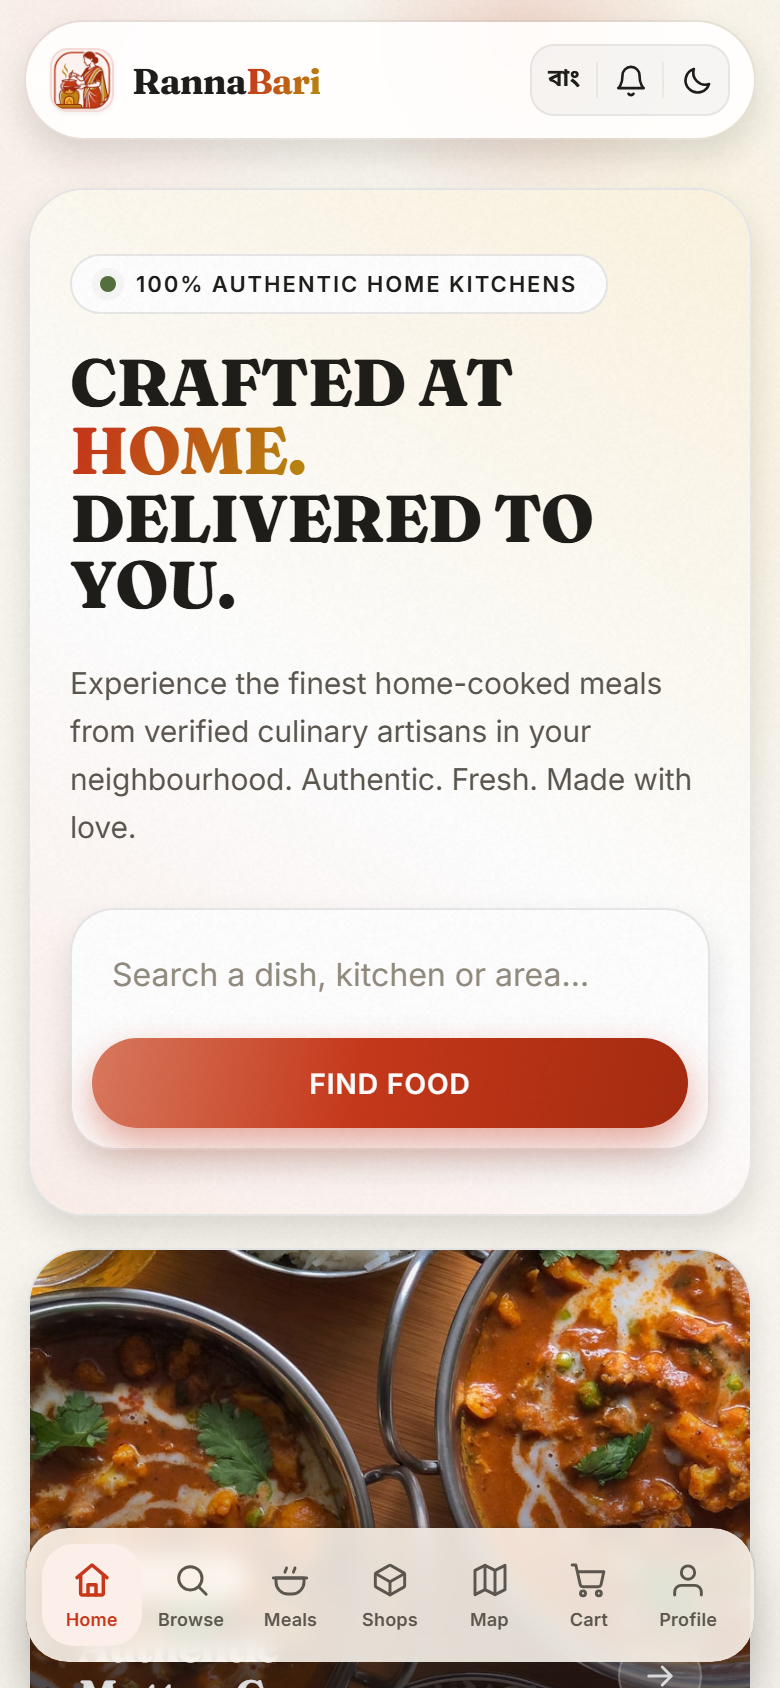
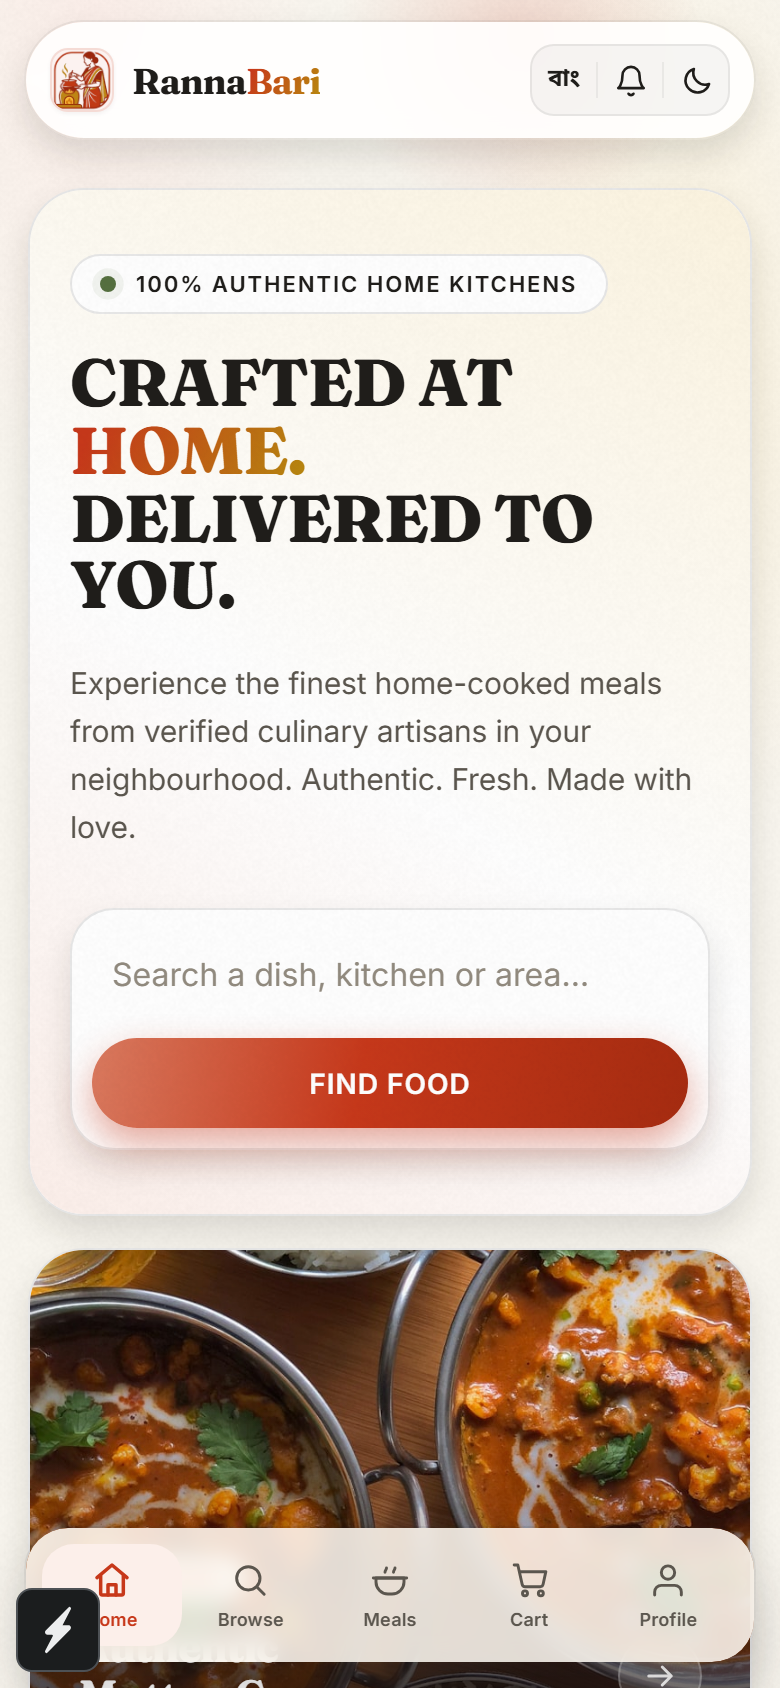
fix(docs): update last counted date and UI references in SYSTEM.md and UI.md fix(app): increment versionCode in app.json and add autolinking configuration in package.json fix(images): update smoke.png asset

diff --git a/ranna-bari/SYSTEM.md b/ranna-bari/SYSTEM.md
@@ -8,7 +8,7 @@ Every figure here was counted from the working tree — routes from the filesyst
 endpoints from the Fastify registrations, collections from the Mongoose models.
 Figures drift as the code does.
 
-**Last counted:** 2026-08-31
+**Last counted:** 2026-09-02
 
 ---
 
@@ -38,7 +38,7 @@ Figures drift as the code does.
 | `admin Panel Next.js` | Next.js 16 · server components | 3100 | 101 | 21,533 |
 | `backend-node` | Fastify 5 · Mongoose 8 · MongoDB Atlas | 4000 | 83 | 33,582 |
 
-Totals: **~100,000 lines · 56 mobile screens · 34 admin pages · 140 API endpoints · 30 collections.**
+Totals: **~100,000 lines · 58 mobile screens · 40 admin pages · 145 API endpoints · 30 collections.**
 
 ```
                     ┌──────────────────────┐
@@ -66,14 +66,19 @@ The same app is a customer app **and** a cook's back office. Which one you see i
 decided by `account.role` plus a view-mode toggle — a cook can flip between
 ordering dinner and running their kitchen without signing out.
 
-Each side has its own seven-tab floating bar.
+Each side has its own floating bar — five tabs for the customer, four for
+the cook. Both were seven until the screens behind them were grouped: Map and
+Shops became segments of Browse, and Menu / Meals / Shop and Earnings /
+Kitchen became two cook hubs. Every one of those routes still exists and every
+link to them still works; they simply are not bar residents.
 
 ### Customer tab bar — `app/(tabs)/`
 
 ```
-┌────────────────────────────────────────────────────────────────┐
-│  Home    Browse    Meals    Shops    Map    Cart    Profile     │
-└────────────────────────────────────────────────────────────────┘
+┌──────────────────────────────────────────────────┐
+│  Home    Browse    Meals    Cart    Profile      │
+└──────────────────────────────────────────────────┘
+   + a live order strip above it whenever something is in flight
 ```
 
 | Tab | Route | What it is |
@@ -81,10 +86,11 @@ Each side has its own seven-tab floating bar.
 | Home | `(tabs)/index` | The feed — nearby kitchens, what's cooking |
 | Browse | `(tabs)/browse` | Search and filter every dish, ranked by distance |
 | Meals | `(tabs)/meals` | Tomorrow's meal board |
-| Shops | `(tabs)/stores` | Directory of packaged-goods shelves |
-| Map | `(tabs)/map` | Live map — dishes, meals, kitchens and shops as pins |
-| Cart | `(tabs)/cart` | The cooked-to-order basket |
+| Cart | `(tabs)/cart` | Both baskets — kitchen dishes and the shelf |
 | Profile | `(tabs)/profile` | Account, orders, wallet, mode switch |
+
+Off the bar but still routed: `(tabs)/stores` is the Shops segment of Browse,
+and `(tabs)/map` is its map view.
 
 ### Customer screens — 32 total
 
@@ -140,20 +146,19 @@ Live chat with a cook or with support, over a WebSocket.
 ### Cook panel tab bar — `app/cook/(panel)/`
 
 ```
-┌────────────────────────────────────────────────────────────────────┐
-│  Today   Orders   Meals   Menu   Shop   Earnings   Kitchen          │
-└────────────────────────────────────────────────────────────────────┘
+┌──────────────────────────────────────────────────┐
+│  Today   Orders   Listings   Business            │
+└──────────────────────────────────────────────────┘
 ```
 
 | Tab | Route | What it is |
 |---|---|---|
 | Today | `(panel)/index` | What is cooking, what is owed, what needs a decision now |
 | Orders | `(panel)/orders` | Incoming orders and their state |
-| Meals | `(panel)/meals` | The cook's published meal board |
-| Menu | `(panel)/menu` | Dishes cookable to order |
-| Shop | `(panel)/store` | The shelf |
-| Earnings | `(panel)/earnings` | Balance, held funds, payouts |
-| Kitchen | `(panel)/kitchen` | Open/closed, profile, delivery radius |
+| Listings | `(panel)/listings` | Hub: menu, meals and the shelf |
+| Business | `(panel)/business` | Hub: earnings, kitchen and its details |
+
+Behind the hubs, still routed: `menu`, `meals`, `store`, `earnings`, `kitchen`.
 
 ### Cook panel screens — 24 total
 
@@ -208,9 +213,12 @@ not by database table. Every list page has a matching detail page.
 │    Menus & dishes           │
 │    Meals                    │
 │    Stores & products        │
+│    Coverage map             │
+│    Pre-orders               │
 │                             │
 │  DEMAND                     │
 │    Orders                   │
+│    Customers                │
 │    Live chat                │
 │    Requests & offers        │
 │    Reviews                  │
@@ -220,6 +228,7 @@ not by database table. Every list page has a matching detail page.
 │    Ledger & escrow          │
 │    Payouts                  │
 │    Top-up reconciliation    │
+│    Refunds                  │
 │    Disputes                 │
 │                             │
 │  PLATFORM                   │
@@ -391,25 +400,43 @@ direction, never updates, which is what keeps the history auditable.
 
 ### Migration debt
 
-- **8 admin pages still read Prisma/SQLite** instead of the backend:
-  `audit`, `notifications`, `orders`, `orders/[id]`, `requests/[id]`, `reviews`,
-  `stores`, and the dash `layout.tsx`. Until they move, the console has two
-  sources of truth.
-- **Dead API routes inside the panel.** `app/api/app/v1/*` still hosts auth,
-  config, kitchens, offers and orders handlers that nothing calls — the phone
-  talks to Fastify directly. The two `chat` routes there *are* live.
+- **24 admin pages still read Prisma/SQLite** — most of the console. An
+  earlier count said eight, because it grepped for the word "prisma"; these
+  pages import `db` from `@/lib/db` instead and never write it. The full list:
+  `admins`, `admins/[id]`, `audit`, `audit/[id]`, `disputes/[id]`, `kitchens`,
+  `kitchens/[id]`, `kyc`, `ledger/[id]`, `meals`, `meals/[id]`,
+  `notifications`, `notifications/[id]`, `orders`, `orders/[id]`, the
+  dashboard, `payouts/[id]`, `requests/[id]`, `reviews`, `reviews/[id]`,
+  `search-terms/[term]`, `stores`, `stores/[id]`, `topups/[id]`.
+
+  Several read *both* — the backend for the rows and Prisma for a filter list
+  or a count the endpoint does not carry yet, which is why some show "—" where
+  a number belongs. Until they move, the console has two sources of truth.
+
+  The pages added since — `customers`, `customers/[id]`, `preorders`,
+  `refunds`, `coverage` — are backend-only, and are the shape the rest should
+  end up in.
+- **9 dead API routes inside the panel.** `app/api/app/v1/*` still hosts
+  `auth/me`, `auth/request-otp`, `auth/verify-otp`, `chat/threads`, `config`,
+  `kitchens`, `kitchens/mine`, `offers` and `orders` — nothing calls them; the
+  phone talks to Fastify directly. The two `chat` routes under `admin/v1` *are*
+  live, so check which is which before deleting.
+- **`prisma/dev.db` is 1.8 MB** and still in the tree. It goes once the pages
+  above do — not before, or twenty-four screens break at once.
 - **Custom admin roles** exist as backend endpoints with no UI on `/admins`.
 - **`prisma/` and the SQLite file** can go once the 8 pages move.
 
-### Open bugs
+### Bugs, since fixed
 
-| Bug | Where | Evidence |
-|---|---|---|
-| **Every meal order confirm fails** | `app/meals/[id].js` sends `address` as a string; the route requires an object | Same call with a proper object returns `201` |
-| **Same bug in the shop** | `app/store-checkout.js:55` | identical string/object mismatch |
-| **The error message misleads** | `bodyError` in `src/routes/app/v1/meals.ts:80` maps *any* failed field to `amount-invalid` | "That amount is not valid" for a bad address, on a request carrying no amount |
-| **Order screen crashes** | `app/order/[id].js:363` — `order.items.map` when `items` is undefined | stack trace from the running app |
-| **Wallet top-up by typing fails** | field holds a string, route uses `z.number()` with no coercion | preset buttons pass numbers and work |
+All five are closed. Kept here because each is the kind that comes back:
+
+| Bug | What it was |
+|---|---|
+| Every meal order confirm failed | the app sent `address` as a string where the route wanted an object — now `addressFromAccount()`, used by both checkouts |
+| The error message misled | `badBody` called every invalid field an `amount-invalid`, so a bad address read "That amount is not valid" on a request with no amount. It names the failing field now |
+| The order screen crashed | `order.items.map` on an order with no items |
+| Wallet top-up by typing failed | the field holds a string, the route takes `z.number()` with no coercion |
+| Wallet orders claimed a phantom escrow | `recordOrder` wrote `payment: 'held'` for any non-cash kind and never posted a ledger entry — the shape existed, the money did not |
 
 The canonical address shape, from `app/checkout.js`:
 

diff --git a/ranna-bari/UI.md b/ranna-bari/UI.md
@@ -99,7 +99,7 @@ Every screen is wrapped in `<Screen>`, which supplies the same furniture:
 │    FilmGrain overlay                     │  ← subtle texture over everything
 │                                          │
 │  ╭────────────────────────────────────╮  │  ← the tab bar: a floating pill
-│  │ Home Browse Meals Shops Map ...    │  │    12px above the home indicator
+│  │ Home Browse Meals Cart Profile     │  │    12px above the home indicator
 │  ╰────────────────────────────────────╯  │
 └──────────────────────────────────────────┘
 ```
@@ -115,6 +115,12 @@ Every screen is wrapped in `<Screen>`, which supplies the same furniture:
 ---
 
 ## Customer screens
+
+The bar carries five: **Home · Browse · Meals · Cart · Profile**, with a live
+order strip above it whenever something is in flight. Shops and Map are not
+missing — Browse carries Shops as a segment and the map as a view, and both
+keep their own routes for every link that already points at them.
+
 
 ### Home — `(tabs)/index`
 
@@ -297,6 +303,11 @@ meal, a shop basket and a haggled cake are the same object.
 ---
 
 ## Cook panel screens
+
+The bar carries four: **Today · Orders · Listings · Business**. Listings is a
+hub over the menu, the meal board and the shelf; Business is one over earnings,
+the kitchen and its details. The five screens behind them are unchanged.
+
 
 Wrapped in `<CookScreen>` rather than `<Screen>` — same shell, cook chrome.
 
